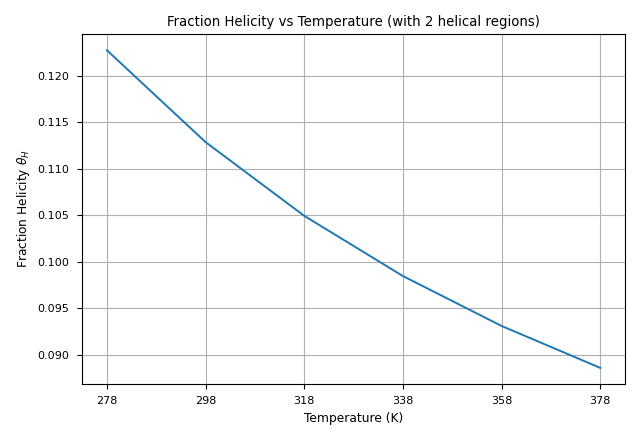
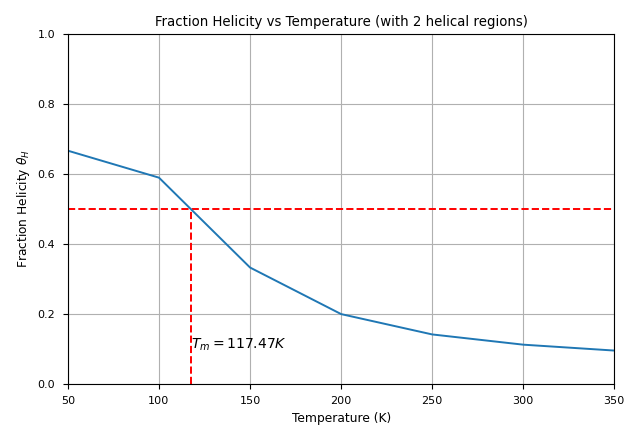
few changes to the figure of two helix seq

diff --git a/zimm_bragg.py b/zimm_bragg.py
@@ -75,7 +75,7 @@ def get_s_cont(seq, s_hi, s_lo, s1=3, e1=7, s2=10, e2=14):
             s_cont *= s_hi
         elif seq[i] == 1 and i not in helix_res:
             s_cont *= s_lo
-
+    
     return s_cont
 
 def FE_two_seq(temp, seqs):
@@ -200,9 +200,14 @@ def plot_util_two_seq(temp_range, seqs):
     plt.close()
 
     # plt.show()
-
-    plt.plot(temp, fh_arr)
-    plt.xticks(temp)
+    f = interp1d(fh_arr, temp_range)
+    plt.hlines(0.5, temp_range[0], temp_range[-1], colors='r', linestyles='dashed', label='theta_H = 0.5')
+    plt.vlines(f(0.5), 0, 0.5, colors='r', linestyles='dashed', label='T = 0.5')
+    plt.xlim(temp_range[0], temp_range[-1])
+    plt.ylim(0, 1)
+    plt.plot(temp_range, fh_arr)
+    plt.xticks(temp_range)
+    plt.text(f(0.5), 0.1, f"$T_m = {f(0.5) :.2f} K$")
     plt.xlabel('Temperature (K)')
     plt.ylabel(r'Fraction Helicity $\theta_H$')
     plt.title('Fraction Helicity vs Temperature (with 2 helical regions)')
@@ -218,7 +223,8 @@ if __name__ == '__main__':
 
     plot_util(temp, sequences)
 
-    plot_util_two_seq(temp, sequences)
+    two_seq_temp_range = range(50, 400, 50)
+    plot_util_two_seq(two_seq_temp_range, sequences)
 
     FE_s_var(298, sequences)
 
